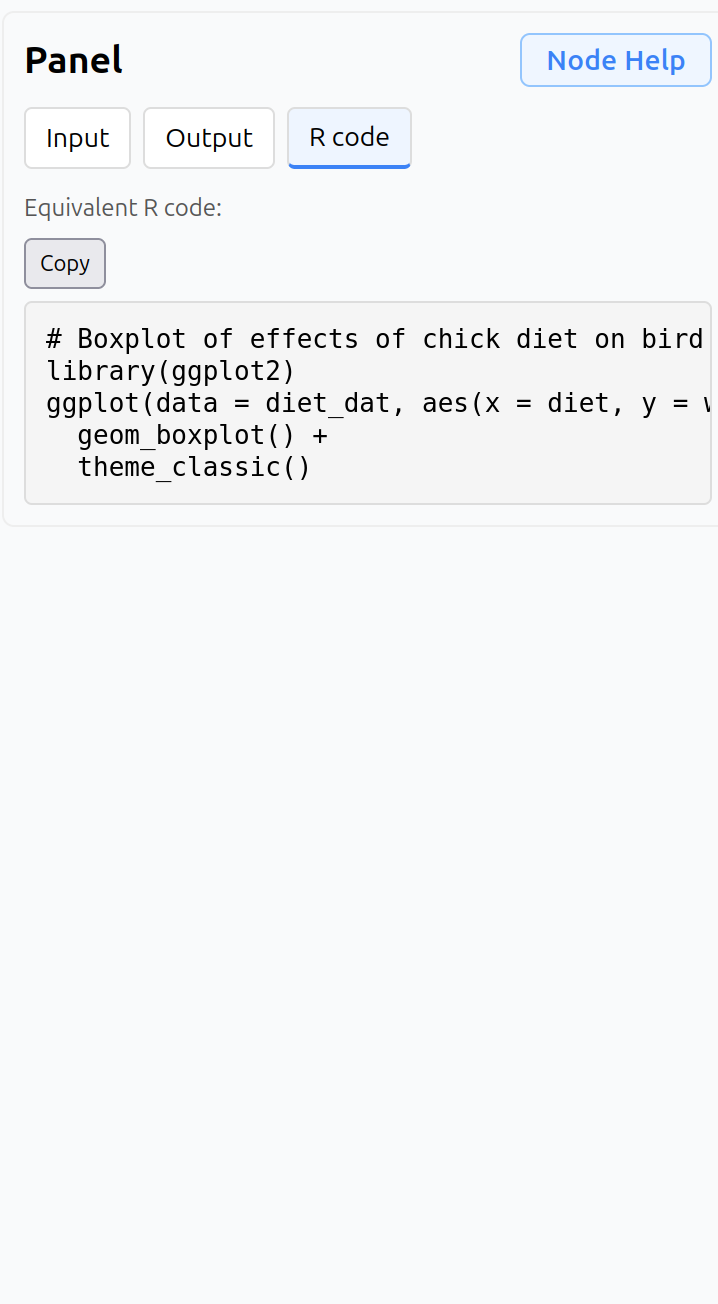
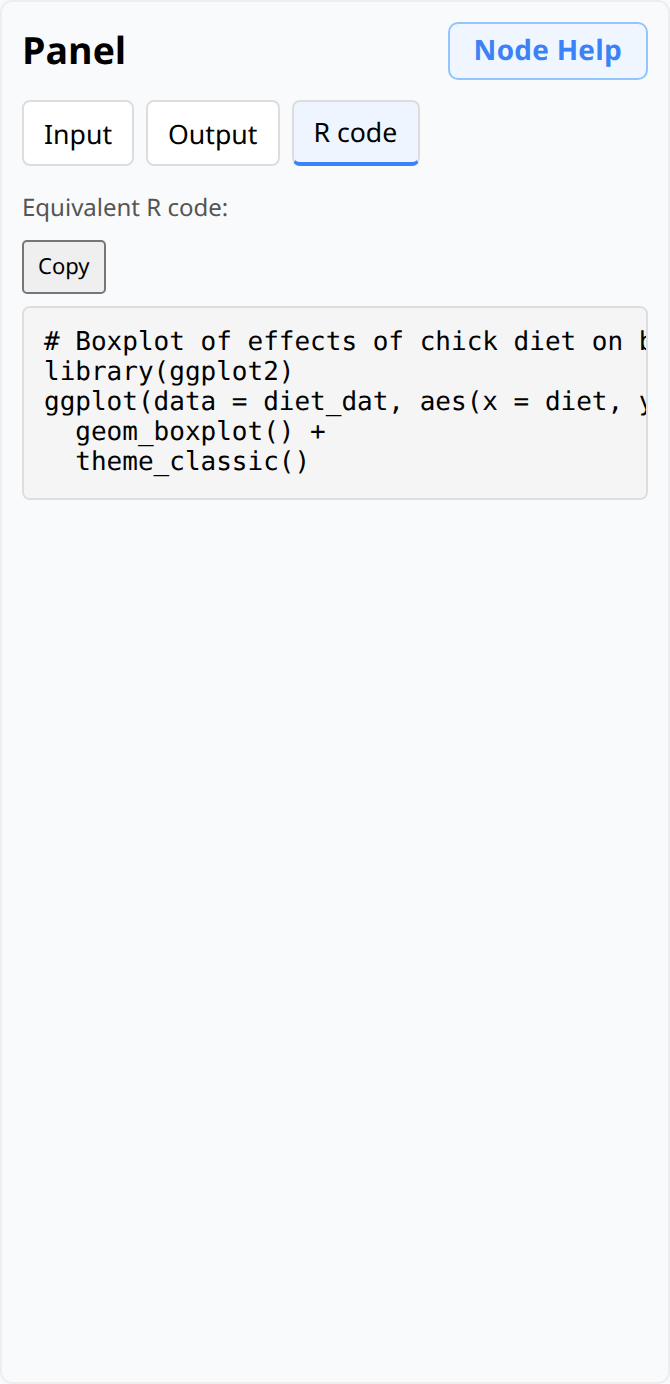
Boxplot node grabbed

diff --git a/playwright/tests/tutorial1a.screenshots.spec.ts b/playwright/tests/tutorial1a.screenshots.spec.ts
@@ -276,4 +276,42 @@ test('capture tutorial 1a workflow and nodes', async ({ page }) => {
   await panel.screenshot({
     path: path.join(imagesDir, 'tutorial_1a_density_r_code2.png'),
   });
+
+  // Capture the Boxplot node's Input, Output, and R code panels.
+  const boxplot = canvas.locator('.react-flow__node').filter({ hasText: /boxplot/i }).first();
+  await expect(boxplot).toBeVisible({ timeout: 15_000 });
+  await boxplot.click();
+  await expect(panel).toBeVisible();
+  await panel.screenshot({
+    path: path.join(imagesDir, 'tutorial_1a_boxplot_input_panel.png'),
+  });
+
+  const boxplotSize = await panel.boundingBox();
+  if (!boxplotSize) {
+    throw new Error('Could not measure the Boxplot panel before capturing screenshots.');
+  }
+  await panel.evaluate((el, { width, height }) => {
+    el.style.boxSizing = 'border-box';
+    el.style.width = `${width}px`;
+    el.style.minHeight = `${height}px`;
+  }, boxplotSize);
+  const assertBoxplotSameSize = async () => {
+    const box = await panel.boundingBox();
+    expect(box?.width).toBeCloseTo(boxplotSize.width, 0);
+    expect(box?.height).toBeCloseTo(boxplotSize.height, 0);
+  };
+
+  await runNode();
+  await page.waitForTimeout(1500);
+  await assertBoxplotSameSize();
+  await panel.screenshot({
+    path: path.join(imagesDir, 'tutorial_1a_boxplot_output_panel.png'),
+  });
+
+  await tab('R code').click();
+  await page.waitForTimeout(500);
+  await assertBoxplotSameSize();
+  await panel.screenshot({
+    path: path.join(imagesDir, 'tutorial_1a_boxplot_r_code_panel.png'),
+  });
 });
